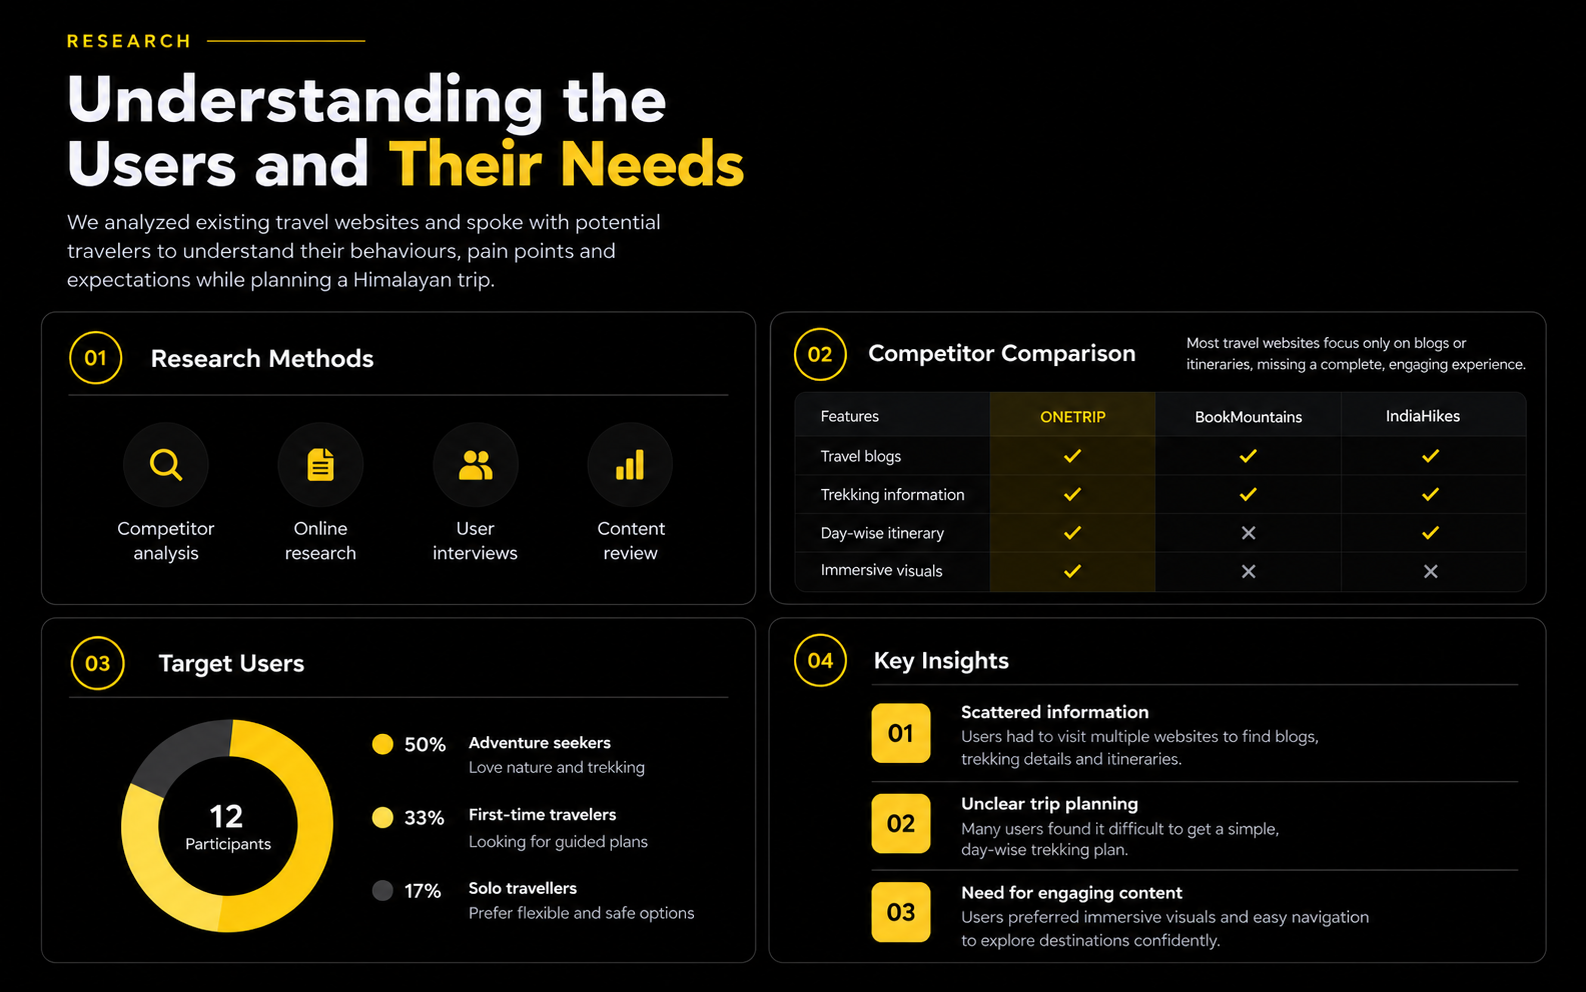
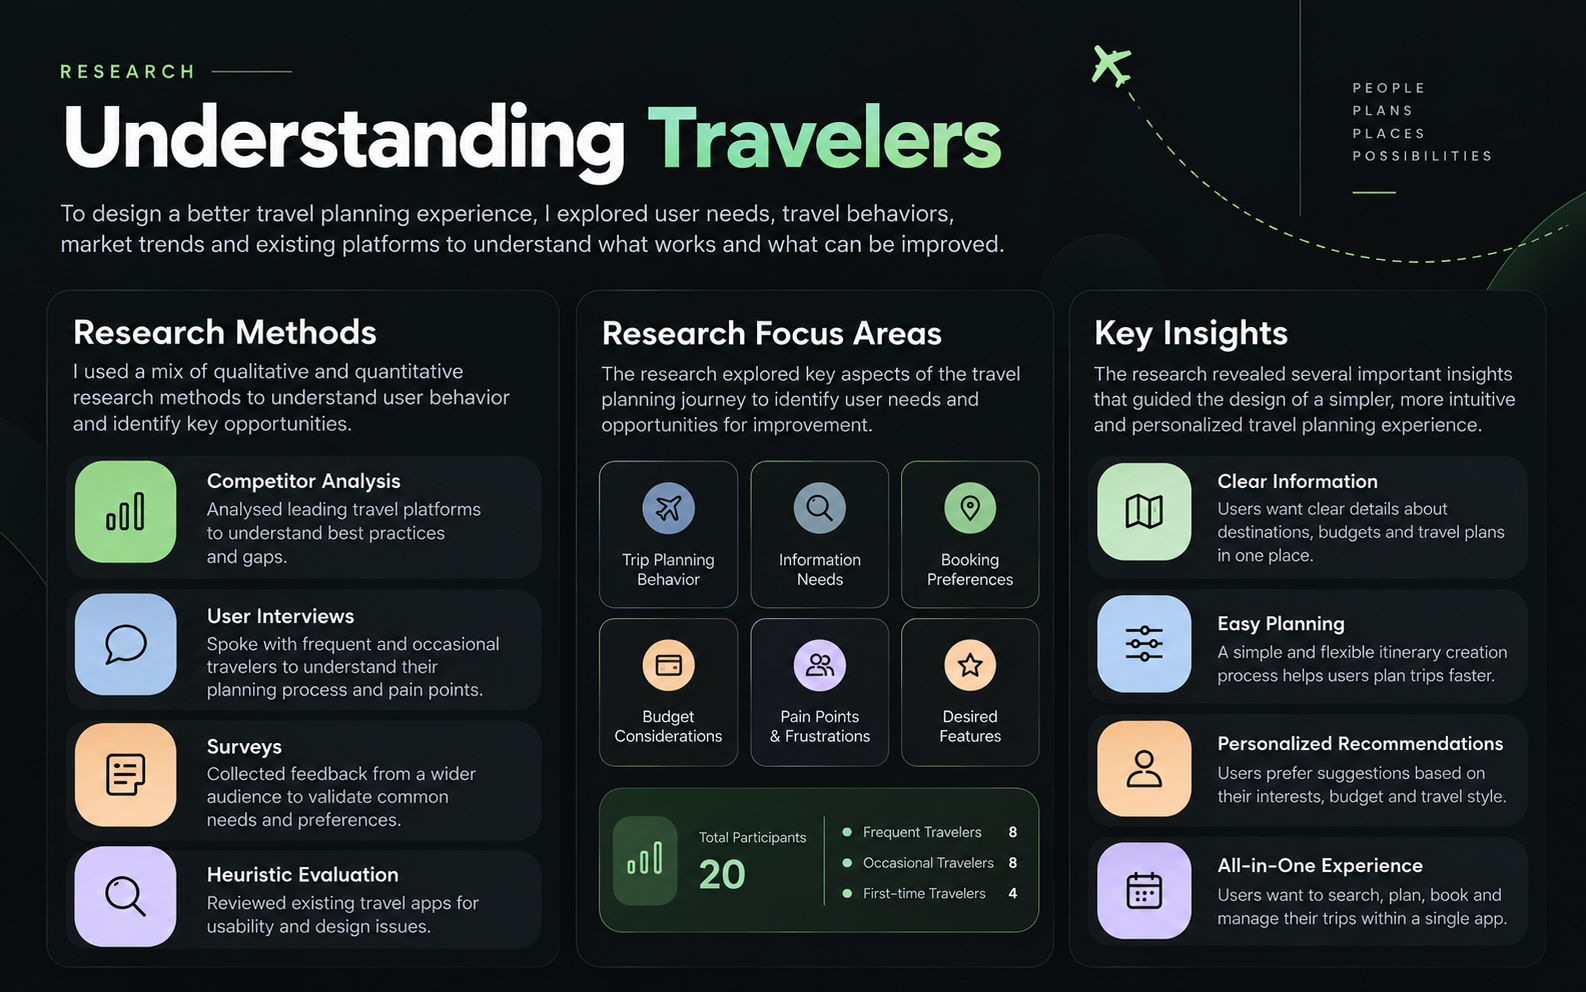
update portfolio

diff --git a/index.html b/index.html
@@ -459,10 +459,10 @@ footer a:hover { color: var(--fg); }
       <p class="mono">Testimonial</p>
     </div>
     <div class="quote-wrap">
-      <blockquote>A short testimonial from a client or colleague goes here, one or two sentences about working with you.</blockquote>
+      <blockquote>I really like your design work! Everything looks clean, creative, and easy to use. Keep up the good work!</blockquote>
       <div class="who">
-        <div class="frame r-1-1"><span style="display:none"></span></div>
-        <div><b>[Name]</b><small>[Role, Company]</small></div>
+        <div class="frame r-1-1"><img src="Images/testimonial.jpg"></div>
+        <div><b>Nandhana B</b><small>Digital Marketer</small></div>
       </div>
     </div>
   </section>
@@ -545,7 +545,7 @@ footer a:hover { color: var(--fg); }
       <h3>Research</h3>
       <div class="txt">
         <p>Explore how people use cafés while working, what makes reserving a seat easier, and which tech-support tasks they need most.</p>
-        <div class="frame r-16-10"><img src="Images/Survey.png"></div>
+        <div class="frame r-16-10"><img src="Images/pro1research.png"></div>
       </div>
     </div>
     <div class="cs-sec">
@@ -627,8 +627,8 @@ footer a:hover { color: var(--fg); }
           Guided 5-Day Itinerary: Organized trekking information into a structured plan to simplify trip planning.<br>
           Strong Call to Action: Added a prominent “Explore More” button to encourage users to discover destinations and guides.</p>
         <div class="cs-pair">
-          <div class="frame r-4-5"><span>Screen · 4:5</span></div>
-          <div class="frame r-4-5"><span>Screen · 4:5</span></div>
+          <div class="frame r-4-5"><img src="Images/pro2mockup1.png"></div>
+          <div class="frame r-4-5"><img src="Images/pro2mockup2.png"></div>
         </div>
       </div>
     </div>
@@ -673,41 +673,47 @@ footer a:hover { color: var(--fg); }
     <div class="cs-sec">
       <h3>Overview</h3>
       <div class="txt">
-        <p class="big">One or two sentences summing up the project and what changed because of it.</p>
-        <p>A short paragraph on the client, the product and your part in it.</p>
+        <p class="big">Deconstruct is a sneaker product page UI/UX design focused on making product discovery and purchasing simple and intuitive. Using reusable components, Figma variables, and interactive prototyping, the design creates a consistent, streamlined shopping experience.</p>
+        <p>My role was to design the product page UI/UX, using reusable Figma components, variables, and interactive prototyping to create a clean, consistent, and user-friendly shopping experience.</p>
       </div>
     </div>
     <div class="cs-sec">
       <h3>The problem</h3>
       <div class="txt">
-        <p>What was not working for users or for the business, and how you knew.</p>
+        <p>The product page needed a clearer way for shoppers to explore sneaker details, compare color options, select sizes, and proceed to checkout. A review of the existing design helped identify opportunities to simplify the layout, improve product visibility,
+           and make purchasing actions more intuitive.</p>
       </div>
     </div>
     <div class="cs-sec">
       <h3>Research</h3>
       <div class="txt">
-        <p>Methods, participants and the key insights you found.</p>
-        <div class="frame r-16-10"><span>Research image · 16:10</span></div>
+        <p>Research Methods: Competitor analysis and review of sneaker e-commerce product pages.<br>
+           Participants: Online shoppers interested in sneakers were considered as the target audience.<br>
+          Key Insights: Shoppers need clear product images, easy-to-select sizes and colors, visible pricing, and a prominent Add to Cart button to make confident purchasing decisions.</p>
+        <div class="frame r-16-10"><img src="Images/pro3research.png"></div>
       </div>
     </div>
     <div class="cs-sec">
       <h3>Design solution</h3>
       <div class="txt">
-        <p>The main decisions you made and why. Add screens, flows and prototypes below.</p>
+        <p>I prioritized clear product imagery, visible pricing, and easy-to-select sizes and colors to help shoppers make confident purchase decisions. Reusable Figma components and variables maintain design consistency,
+           while interactive prototyping demonstrates the flow from product selection to adding an item to the cart.</p>
         <div class="cs-pair">
-          <div class="frame r-4-5"><span>Screen · 4:5</span></div>
-          <div class="frame r-4-5"><span>Screen · 4:5</span></div>
+          <div class="frame r-4-5"><img src="Images/pro3mockup1.png"></div>
+          <div class="frame r-4-5"><img src="Images/pro3mockup2.png"></div>
         </div>
       </div>
     </div>
     <div class="cs-sec">
       <h3>Outcome</h3>
       <div class="txt" style="max-width:none">
-        <p>What improved, with numbers where you have them.</p>
+        <p>The redesigned cart makes product details, size, quantity, discounts, and checkout actions easier to scan within one interface.
+           The design brings together 6 key cart elements using reusable components and Figma variables to improve consistency and simplify the shopping flow.
+           Quantitative usability improvements have not yet been measured.</p>
         <div class="cs-results">
-          <div><b>00%</b><small>Metric label</small></div>
-          <div><b>0.0x</b><small>Metric label</small></div>
-          <div><b>00</b><small>Metric label</small></div>
+          <div><b>08</b><small>Variable Collections</small></div>
+          <div><b>1.5x</b><small>Design Workflow Speed</small></div>
+          <div><b>80%</b><small>Interaction Coverage</small></div>
         </div>
       </div>
     </div>
@@ -770,8 +776,8 @@ footer a:hover { color: var(--fg); }
             Key Screens: Dashboard, Reports, Orders, and Expense Management.<br>
           User Flow: View dashboard → Check orders and sales → Manage expenses or bookings.</p>
         <div class="cs-pair">
-          <div class="frame r-4-5"><span>Screen · 4:5</span></div>
-          <div class="frame r-4-5"><span>Screen · 4:5</span></div>
+          <div class="frame r-4-5"><img src="Images/pro4mockup1.png"></div>
+          <div class="frame r-4-5"><img src="Images/pro4mockup2.png"></div>
         </div>
       </div>
     </div>
